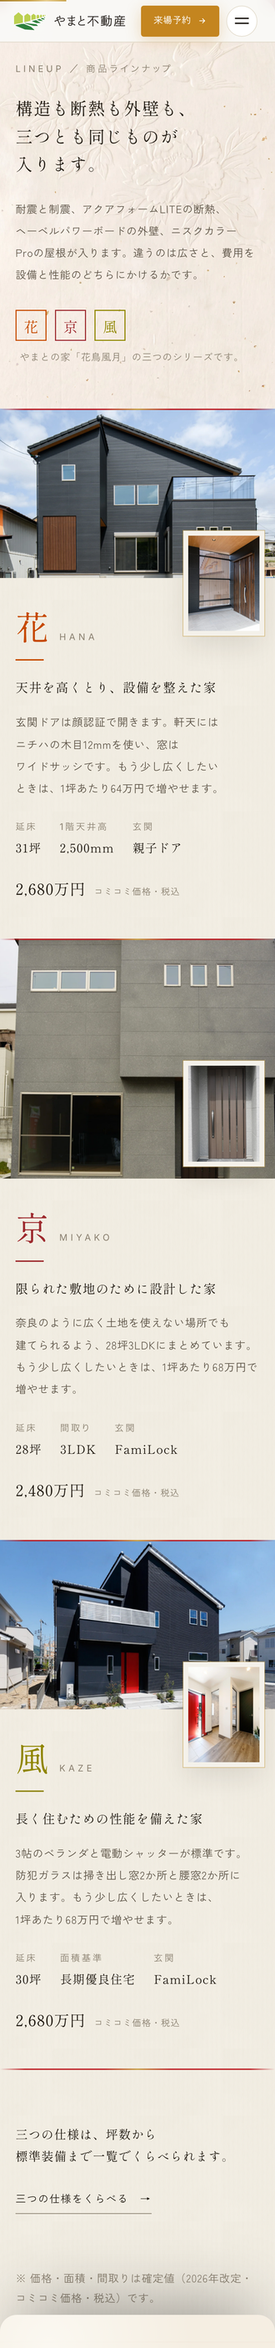
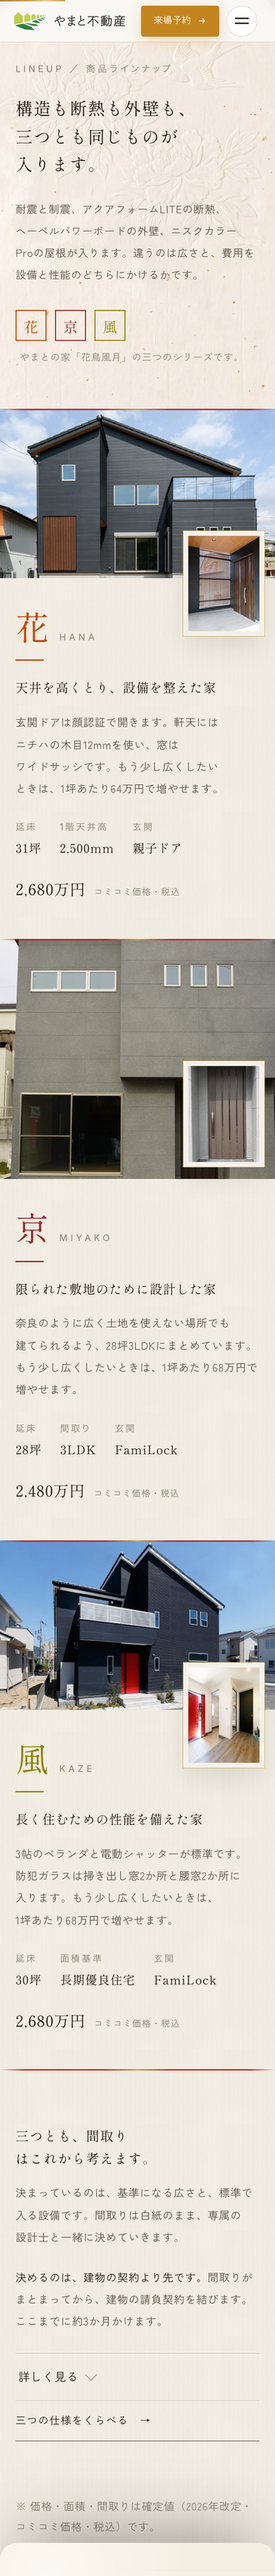
lineup: 自由設計を折りたたみに統合。コピーを読者の問いの順に書き直し
■ コピーの書き直し（ユーザー指摘「頭に入ってこない」）
原因は私にあった。リサーチで大阪府の警告を見つけて、読者もその文脈を
共有していると錯覚し、業界の用語論から書き始めていた。

三つのプランを見た直後の読者の問いは「私の家はこの通りになるのか」の一つだけ。
そこに合わせて順序を組み替えた。

旧: 見出し「どこまでが決まっていて、どこからが自由か。」（問いのまま）
  → リード「「自由設計」という言葉は会社によって指すものが違います」（用語論）
  → 「間取りが決まってから、建物の請負契約です」

新: 見出し「三つとも、間取りはこれから考えます。」（読者の問いに即答）
  → 「決まっているのは、基準になる広さと、標準で入る設備です。間取りは白紙のまま…」
  → 「決めるのは、建物の契約より先です。」

あわせて:
・「線引き」を撤去（書き手側の言葉。読者は線引きされたいわけではない）
・「決まっていないもの」→「これから決めるもの」
  同じ事実だが、否定形だと本来いちばん嬉しいこと（自由）が欠落に読める
・「決まっているもの」→「変わらないもの」（変えられるものと対になる）
・dd の体言止め（「間取り。」「広さ。」）を完全文に。自分で他所に課した規約違反だった

■ パンフ5手順 → 2つに
「一字も変えるな」と指示したのは私だが、パンフの声（オンリーワン／夢があふれ／
心の傘）はサイトの素の説明体と register が違い、混ざると違和感になる。
また5つのうち差別化になるのは 01（敷地を読む）と 02（不満点・後悔も聞く）だけで、
03-05 はどの会社も言っている。2つに絞り、サイトの声に直した。
設計士2名のコメントは本人の言葉なので verbatim のまま残す（名前と肩書つきで
提示するので register の差は意図的なものとして成立する）。

■ 構造
図面 lineup_free_mock.html（claude-ae）の折りたたみをそのまま採用。
一本の罫に扉を二つ（左＝その場で開く／右＝別ページへ）。
閉じの塊が縦に2つ並んでいたのが間延びの正体だったので、比較の一文は落とした。

■ 事故と復旧
CSS を正規表現でブロック抽出したところ @media が途中で切れ、閉じ括弧が2つ
欠けた状態で index.html に貼り、他セクションの FAIL が 72→365 に激増した。
バックアップから戻し、括弧の深さを数える方式で抽出し直して解決。
CSS を機械的に切り出すときは正規表現ではなく深さを数えること。

mobile-verify: #lineup 由来の FAIL 0（残72件は既存の iju/flow/faq/lots）。

diff --git a/lineup_free_mock.html b/lineup_free_mock.html
@@ -1,0 +1,176 @@
+<!DOCTYPE html>
+<html lang="ja">
+<head>
+<meta charset="UTF-8">
+<meta name="viewport" content="width=device-width, initial-scale=1">
+<title>#lineup 自由設計ブロック 折りたたみ図面 v2</title>
+<link rel="preconnect" href="https://fonts.googleapis.com">
+<link rel="preconnect" href="https://fonts.gstatic.com" crossorigin>
+<link href="https://fonts.googleapis.com/css2?family=Inter:wght@400;500&family=Shippori+Mincho+B1:wght@400;500&family=Zen+Kaku+Gothic+New:wght@300;400;500&display=swap" rel="stylesheet">
+<style>
+  *{margin:0;padding:0;box-sizing:border-box}
+  html{-webkit-text-size-adjust:100%}
+  body{background:#E8E4DA;font-family:"Zen Kaku Gothic New",sans-serif;font-feature-settings:"palt"}
+  .mk{max-width:1440px;margin:0 auto}
+  .mk__lab{padding:30px 22px 10px;font-size:15px;letter-spacing:.1em;color:#6E655A}
+
+  /* ══ ここから下は index.html にそのまま移せる ══ */
+  .lineup{position:relative;isolation:isolate;overflow:hidden;padding:0;
+    --lu-paper:#F4F1EA; --lu-sumi:#241E16; --lu-sumi2:#5C5346; --lu-sumi3:#8A8070;
+    --lu-fm:"Shippori Mincho B1","Hiragino Mincho ProN",serif;
+    --lu-fg:"Zen Kaku Gothic New",sans-serif;
+    --lu-fn:"Inter",sans-serif;
+    --lu-gx:clamp(22px,5vw,88px);
+    --lu-ground:linear-gradient(rgba(244,241,234,.62),rgba(244,241,234,.62)),
+      url("assets/std/page_kinari_letter_2400.webp");
+    color:var(--lu-sumi);background:var(--lu-paper);font-family:var(--lu-fg);font-weight:300}
+  .lu-cl{position:relative;padding:clamp(56px,7vw,96px) var(--lu-gx) clamp(64px,8vw,110px);
+    background:var(--lu-ground) center/cover var(--lu-paper);background-size:auto,62% auto}
+  .lu-cl__in{max-width:1180px;margin:0 auto}
+  .lu-free{max-width:46em}
+  .lu-free__h{margin:0;font-family:var(--lu-fm);font-weight:400;text-wrap:balance;line-break:strict;
+    font-size:clamp(1.18rem,1rem + .72vw,1.6rem);line-height:1.68;letter-spacing:.06em}
+  .lu-free__h span{display:inline-block}
+  .lu-free__b{margin:clamp(18px,2.2vw,26px) 0 0;line-break:strict;word-break:auto-phrase;text-wrap:balance;
+    font-size:clamp(.95rem,.92rem + .16vw,1.02rem);line-height:2.04;letter-spacing:.045em;color:var(--lu-sumi2)}
+  .lu-free__sig{margin:clamp(20px,2.4vw,28px) 0 0;line-break:strict;word-break:auto-phrase;text-wrap:balance;
+    font-size:clamp(.95rem,.92rem + .16vw,1.02rem);line-height:2.02;letter-spacing:.045em;color:var(--lu-sumi2)}
+  .lu-free__sig b{font-weight:400;color:var(--lu-sumi)}
+
+  /* ───── 一本の罫に、扉を二つ ─────
+     左＝その場で開く（シェブロン）／右＝別ページへ（矢印）。
+     <summary> の中に <a> は置けないので、CTA は details の兄弟にして
+     summary 行へ重ねている。SPでは重ねずに下へ落とす。 */
+  .lu-doors{position:relative;margin:clamp(30px,3.6vw,44px) 0 0;
+    border-top:1px solid rgba(36,30,22,.14);border-bottom:1px solid rgba(36,30,22,.14)}
+  .lu-more{border:0}
+  .lu-more summary{list-style:none;cursor:pointer;display:flex;align-items:center;
+    justify-content:flex-start;gap:12px;min-height:44px;
+    padding:clamp(18px,2.4vw,26px) 4px;padding-right:clamp(200px,20vw,300px);
+    font-family:var(--lu-fg);font-weight:400;font-size:clamp(.98rem,.94rem + .35vw,1.14rem);
+    letter-spacing:.04em;line-height:1.8;color:var(--lu-sumi);transition:color .25s}
+  .lu-more summary::-webkit-details-marker{display:none}
+  .lu-more summary:hover{color:#2E4600}
+  .lu-more summary::after{content:"";width:11px;height:11px;flex:0 0 auto;align-self:center;
+    border-right:1.5px solid #8D857A;border-bottom:1.5px solid #8D857A;
+    transform:translateY(-3px) rotate(45deg);transition:transform .3s cubic-bezier(.33,1,.68,1)}
+  .lu-more[open] summary::after{transform:translateY(2px) rotate(-135deg)}
+  .lu-more summary .lu-more__close{display:none}
+  .lu-more[open] summary .lu-more__open{display:none}
+  .lu-more[open] summary .lu-more__close{display:inline}
+  .lu-doors__cta{position:absolute;right:4px;top:0;display:inline-flex;align-items:center;
+    min-height:44px;height:calc(clamp(18px,2.4vw,26px) * 2 + 1.8em);
+    font-family:var(--lu-fg);font-weight:400;font-size:.92rem;letter-spacing:.09em;
+    color:var(--lu-sumi);text-decoration:none;white-space:nowrap;
+    box-shadow:inset 0 -1px 0 var(--lu-sumi3)}
+  .lu-doors__cta:hover{box-shadow:inset 0 -1px 0 var(--lu-sumi)}
+  @media (max-width:700px){
+    .lu-more summary{padding-right:4px}
+    .lu-doors__cta{position:static;height:auto;padding:16px 0 20px;
+      border-top:1px solid rgba(36,30,22,.14);width:100%}
+  }
+
+  .lu-more__in{padding:0 4px clamp(24px,3vw,34px)}
+  .lu-more__in{max-width:46em}
+  .lu-sec{display:block;margin:clamp(28px,3.4vw,40px) 0 clamp(14px,1.8vw,20px);font-family:var(--lu-fn);
+    font-weight:400;font-size:.8rem;letter-spacing:.26em;color:var(--lu-sumi3);text-transform:uppercase}
+  .lu-sec:first-child{margin-top:clamp(4px,1vw,10px)}
+
+  .lu-led{margin:0;padding:0;border-top:1px solid rgba(36,30,22,.14)}
+  .lu-led__row{display:grid;grid-template-columns:minmax(0,14em) minmax(0,1fr);
+    gap:clamp(14px,2.4vw,40px);padding:clamp(20px,2.4vw,30px) 0;
+    border-bottom:1px solid rgba(36,30,22,.14)}
+  .lu-led dt{font-family:var(--lu-fm);font-weight:400;font-size:clamp(1rem,.94rem + .3vw,1.14rem);
+    line-height:1.7;letter-spacing:.08em;color:var(--lu-sumi)}
+  .lu-led dd{margin:0;line-break:strict;word-break:auto-phrase;text-wrap:balance;
+    font-size:clamp(.95rem,.92rem + .16vw,1.02rem);line-height:2.02;letter-spacing:.045em;color:var(--lu-sumi2)}
+  .lu-led dd b{font-weight:400;color:var(--lu-sumi)}
+
+  /* 設計の5手順 */
+  /* 手順と二人は一列・40em（1行およそ39字）。二列にすると28字で和文本文の下限30字を割る */
+  .lu-step__grid{display:grid;grid-template-columns:minmax(0,1fr);gap:clamp(26px,3vw,38px);
+    max-width:40em}
+  .lu-step__n{display:block;margin:0 0 6px;font-family:var(--lu-fn);font-weight:400;font-size:.8rem;
+    letter-spacing:.18em;color:var(--lu-sumi3)}
+  .lu-step__h{margin:0 0 8px;font-family:var(--lu-fm);font-weight:400;text-wrap:balance;line-break:strict;
+    font-size:clamp(1rem,.94rem + .3vw,1.14rem);line-height:1.7;letter-spacing:.07em;color:var(--lu-sumi)}
+  .lu-step__b{margin:0;line-break:strict;word-break:auto-phrase;text-wrap:balance;
+    font-size:clamp(.95rem,.92rem + .1vw,.99rem);line-height:2.0;letter-spacing:.045em;color:var(--lu-sumi2)}
+  /* 02 だけ立てる。新しい装飾は足さず、章の中で使っている細罫と余白で差をつける */
+  .lu-step.is-lead{padding-top:clamp(20px,2.4vw,28px);border-top:1px solid rgba(36,30,22,.14)}
+
+  /* 設計担当の二人。写真は無いので枠を作らない */
+  .lu-ppl{display:grid;grid-template-columns:minmax(0,1fr);max-width:40em;
+    row-gap:clamp(26px,3vw,36px);
+    border-top:1px solid rgba(36,30,22,.14);padding-top:clamp(20px,2.4vw,28px)}
+  .lu-ppl__n{margin:0;font-family:var(--lu-fm);font-weight:400;
+    font-size:clamp(1rem,.94rem + .3vw,1.14rem);line-height:1.7;letter-spacing:.08em;color:var(--lu-sumi)}
+  .lu-ppl__r{display:block;margin:2px 0 10px;font-size:.85rem;line-height:1.8;letter-spacing:.06em;color:var(--lu-sumi3)}
+  .lu-ppl__c{margin:0;line-break:strict;word-break:auto-phrase;text-wrap:balance;
+    font-size:clamp(.95rem,.92rem + .1vw,.99rem);line-height:2.0;letter-spacing:.045em;color:var(--lu-sumi2)}
+  @media (max-width:640px){
+    .lu-led__row{grid-template-columns:minmax(0,1fr);gap:10px}
+  }
+  @media (prefers-reduced-motion:reduce){ .lu-more summary::after{transition:none} }
+</style>
+</head>
+<body>
+<div class="mk">
+
+  <p class="mk__lab">閉じた状態（扉は二つ：左＝その場で開く／右＝別ページへ）</p>
+  <section class="lineup"><div class="lu-cl"><div class="lu-cl__in">
+    <div class="lu-free">
+      <p class="lu-free__h">どこまでが決まっていて、<span>どこからが自由か。</span></p>
+      <p class="lu-free__b">「自由設計」という言葉は、会社によって指すものが違います。だから、やまとの線引きを先に書いておきます。</p>
+      <p class="lu-free__sig"><b>間取りが決まってから、建物の請負契約です。</b>打ち合わせには約3か月かけます。</p>
+    </div>
+    <div class="lu-doors">
+      <details class="lu-more">
+        <summary><span class="lu-more__open">詳しく見る</span><span class="lu-more__close">閉じる</span></summary>
+        <div class="lu-more__in"><span class="lu-sec">線引き</span><dl class="lu-led"><div class="lu-led__row"><dt>決まっているもの</dt><dd><b>構造と断熱、外壁と屋根、それに標準の設備です。</b>もうひとつ、基準になる広さも決まっています。三つのプランで違うのは、この広さと、設備をどこまで載せるかだけです。</dd></div><div class="lu-led__row"><dt>決まっていないもの</dt><dd><b>間取り。</b>部屋の数も配置も決まっていません。専属の設計士が打ち合わせの最初から同席して、一から考えます。同じ形に見える分譲地でも、隣の敷地しだいで光の入り方や視線の抜ける方向は変わるからです。</dd></div><div class="lu-led__row"><dt>変えられるもの</dt><dd><b>広さ。</b>1坪あたり64万円から増やせます。この金額には、増えた分の基礎3.3㎡も含まれています。</dd></div></dl><span class="lu-sec">設計の進め方</span><div class="lu-step__grid"><div class="lu-step"><span class="lu-step__n">01</span><p class="lu-step__h">敷地を読み解く</p><p class="lu-step__b">全ての住宅は必ず敷地の上に建っており、この敷地はお客様だけの、たった一つのものになります。同じ形の敷地が並んでいるように見える分譲地であっても、隣地の状況によっては、光の入り方、視線が抜ける方向などが違います。まずは敷地の特徴をつかむ事が設計の第1歩と考えております。</p></div><div class="lu-step is-lead"><span class="lu-step__n">02</span><p class="lu-step__h">要望と向き合い整理する</p><p class="lu-step__b">住宅の設計はお客様にとってのオンリーワンを作りだすものです。そのためにはお客様より多くの要望を聞き取ることが重要になります。新しい家には夢があふれ、様々なご要望があるかと思っております。理想の家がどんなものなのか、現在のお住まいの不満点や後悔された内容も一緒に整理していきます。</p></div><div class="lu-step"><span class="lu-step__n">03</span><p class="lu-step__h">様々な条件をまとめ整える</p><p class="lu-step__b">お客様にとって使いやすい間取りを考え、ゾーニング計画から動線、採光計画、キッチンやリビング、子ども部屋、水まわりなど部屋毎に暮らしやすさにこだわって要望をまとめていきます。</p></div><div class="lu-step"><span class="lu-step__n">04</span><p class="lu-step__h">耐震・災害に強い家について考える</p><p class="lu-step__b">お客様にとって動線や、暮らしやすさだけでは快適な家であるとは思っておりません。地震や災害にも強い家にすることも、大切なポイントであると考えております。</p></div><div class="lu-step"><span class="lu-step__n">05</span><p class="lu-step__h">あそびゴコロをプラスして</p><p class="lu-step__b">暮らしに彩りを演出する事で毎日が楽しく、自然と家族がコミュニケーションをとれるような、あそびゴコロも感じていただきたいと考えております。</p></div></div><span class="lu-sec">設計を担当する二人</span><div class="lu-ppl"><div class="lu-ppl__i"><p class="lu-ppl__n">栗野 佑也</p><span class="lu-ppl__r">KURINO Yuya／設計士</span><p class="lu-ppl__c">それぞれのご家族の暮らし・生活スタイルに沿ったプランをご提案。そこに住まうご家族が笑顔で楽しく過ごせる。そんな住まいの設計をしたいと思っております。</p></div><div class="lu-ppl__i"><p class="lu-ppl__n">岩佐 篤志</p><span class="lu-ppl__r">IWASA Atsushi／住宅デザイナー</span><p class="lu-ppl__c">現場監督や、営業設計の経験を活かして、みなさんの理想のお家をご提案します。そのためにも、お客様の心の傘を大きく開いていただけるように、がんばります！</p></div></div></div>
+      </details>
+      <a class="lu-doors__cta" href="madori.html#plans">三つの仕様をくらべる　→</a>
+    </div>
+  </div></div></section>
+
+  <p class="mk__lab">開いた状態</p>
+  <section class="lineup"><div class="lu-cl"><div class="lu-cl__in">
+    <div class="lu-free">
+      <p class="lu-free__h">どこまでが決まっていて、<span>どこからが自由か。</span></p>
+      <p class="lu-free__b">「自由設計」という言葉は、会社によって指すものが違います。だから、やまとの線引きを先に書いておきます。</p>
+      <p class="lu-free__sig"><b>間取りが決まってから、建物の請負契約です。</b>打ち合わせには約3か月かけます。</p>
+    </div>
+    <div class="lu-doors">
+      <details class="lu-more" open>
+        <summary><span class="lu-more__open">詳しく見る</span><span class="lu-more__close">閉じる</span></summary>
+        <div class="lu-more__in"><span class="lu-sec">線引き</span><dl class="lu-led"><div class="lu-led__row"><dt>決まっているもの</dt><dd><b>構造と断熱、外壁と屋根、それに標準の設備です。</b>もうひとつ、基準になる広さも決まっています。三つのプランで違うのは、この広さと、設備をどこまで載せるかだけです。</dd></div><div class="lu-led__row"><dt>決まっていないもの</dt><dd><b>間取り。</b>部屋の数も配置も決まっていません。専属の設計士が打ち合わせの最初から同席して、一から考えます。同じ形に見える分譲地でも、隣の敷地しだいで光の入り方や視線の抜ける方向は変わるからです。</dd></div><div class="lu-led__row"><dt>変えられるもの</dt><dd><b>広さ。</b>1坪あたり64万円から増やせます。この金額には、増えた分の基礎3.3㎡も含まれています。</dd></div></dl><span class="lu-sec">設計の進め方</span><div class="lu-step__grid"><div class="lu-step"><span class="lu-step__n">01</span><p class="lu-step__h">敷地を読み解く</p><p class="lu-step__b">全ての住宅は必ず敷地の上に建っており、この敷地はお客様だけの、たった一つのものになります。同じ形の敷地が並んでいるように見える分譲地であっても、隣地の状況によっては、光の入り方、視線が抜ける方向などが違います。まずは敷地の特徴をつかむ事が設計の第1歩と考えております。</p></div><div class="lu-step is-lead"><span class="lu-step__n">02</span><p class="lu-step__h">要望と向き合い整理する</p><p class="lu-step__b">住宅の設計はお客様にとってのオンリーワンを作りだすものです。そのためにはお客様より多くの要望を聞き取ることが重要になります。新しい家には夢があふれ、様々なご要望があるかと思っております。理想の家がどんなものなのか、現在のお住まいの不満点や後悔された内容も一緒に整理していきます。</p></div><div class="lu-step"><span class="lu-step__n">03</span><p class="lu-step__h">様々な条件をまとめ整える</p><p class="lu-step__b">お客様にとって使いやすい間取りを考え、ゾーニング計画から動線、採光計画、キッチンやリビング、子ども部屋、水まわりなど部屋毎に暮らしやすさにこだわって要望をまとめていきます。</p></div><div class="lu-step"><span class="lu-step__n">04</span><p class="lu-step__h">耐震・災害に強い家について考える</p><p class="lu-step__b">お客様にとって動線や、暮らしやすさだけでは快適な家であるとは思っておりません。地震や災害にも強い家にすることも、大切なポイントであると考えております。</p></div><div class="lu-step"><span class="lu-step__n">05</span><p class="lu-step__h">あそびゴコロをプラスして</p><p class="lu-step__b">暮らしに彩りを演出する事で毎日が楽しく、自然と家族がコミュニケーションをとれるような、あそびゴコロも感じていただきたいと考えております。</p></div></div><span class="lu-sec">設計を担当する二人</span><div class="lu-ppl"><div class="lu-ppl__i"><p class="lu-ppl__n">栗野 佑也</p><span class="lu-ppl__r">KURINO Yuya／設計士</span><p class="lu-ppl__c">それぞれのご家族の暮らし・生活スタイルに沿ったプランをご提案。そこに住まうご家族が笑顔で楽しく過ごせる。そんな住まいの設計をしたいと思っております。</p></div><div class="lu-ppl__i"><p class="lu-ppl__n">岩佐 篤志</p><span class="lu-ppl__r">IWASA Atsushi／住宅デザイナー</span><p class="lu-ppl__c">現場監督や、営業設計の経験を活かして、みなさんの理想のお家をご提案します。そのためにも、お客様の心の傘を大きく開いていただけるように、がんばります！</p></div></div></div>
+      </details>
+      <a class="lu-doors__cta" href="madori.html#plans">三つの仕様をくらべる　→</a>
+    </div>
+  </div></div></section>
+</div>
+<script>
+(function(){
+  document.querySelectorAll('.lu-more').forEach(function(dt){
+    var sum=dt.querySelector('summary'), ans=dt.querySelector('.lu-more__in');
+    if(!sum||!ans) return;
+    sum.addEventListener('click',function(e){
+      e.preventDefault();
+      if(dt.classList.contains('is-anim')) return;
+      dt.classList.add('is-anim');
+      if(!dt.open){
+        dt.open=true;
+        var h=ans.scrollHeight; ans.style.overflow='hidden';
+        ans.animate([{height:'0px',opacity:0},{height:h+'px',opacity:1}],{duration:340,easing:'cubic-bezier(.25,1,.5,1)'})
+          .onfinish=function(){ ans.style.overflow=''; dt.classList.remove('is-anim'); };
+      } else {
+        var h2=ans.scrollHeight; ans.style.overflow='hidden';
+        ans.animate([{height:h2+'px',opacity:1},{height:'0px',opacity:0}],{duration:280,easing:'cubic-bezier(.5,0,.75,0)'})
+          .onfinish=function(){ ans.style.overflow=''; dt.open=false; dt.classList.remove('is-anim'); };
+      }
+    });
+  });
+})();
+</script>
+</body>
+</html>

diff --git a/index.html b/index.html
@@ -747,6 +747,66 @@
   /* 自由設計の断り。三つの帯が「決まった商品が三つ」に読めるので、
      間取りは型ではないことをここで言う。新しい視覚言語は足さず、
      章の出口の中に二段で置く（説明 → 比較への導線）。*/
+  /* ───── 一本の罫に、扉を二つ ─────
+     左＝その場で開く（シェブロン）／右＝別ページへ（矢印）。
+     <summary> の中に <a> は置けないので、CTA は details の兄弟にして
+     summary 行へ重ねている。SPでは重ねずに下へ落とす。 */
+  .lu-doors{position:relative;margin:clamp(30px,3.6vw,44px) 0 0;
+    border-top:1px solid rgba(36,30,22,.14);border-bottom:1px solid rgba(36,30,22,.14)}
+  .lu-more{border:0}
+  .lu-more summary{list-style:none;cursor:pointer;display:flex;align-items:center;
+    justify-content:flex-start;gap:12px;min-height:44px;
+    padding:clamp(18px,2.4vw,26px) 4px;padding-right:clamp(200px,20vw,300px);
+    font-family:var(--lu-fg);font-weight:400;font-size:clamp(.98rem,.94rem + .35vw,1.14rem);
+    letter-spacing:.04em;line-height:1.8;color:var(--lu-sumi);transition:color .25s}
+  .lu-more summary::-webkit-details-marker{display:none}
+  .lu-more summary:hover{color:#2E4600}
+  .lu-more summary::after{content:"";width:11px;height:11px;flex:0 0 auto;align-self:center;
+    border-right:1.5px solid #8D857A;border-bottom:1.5px solid #8D857A;
+    transform:translateY(-3px) rotate(45deg);transition:transform .3s cubic-bezier(.33,1,.68,1)}
+  .lu-more[open] summary::after{transform:translateY(2px) rotate(-135deg)}
+  .lu-more summary .lu-more__close{display:none}
+  .lu-more[open] summary .lu-more__open{display:none}
+  .lu-more[open] summary .lu-more__close{display:inline}
+  .lu-doors__cta{position:absolute;right:4px;top:0;display:inline-flex;align-items:center;
+    min-height:44px;height:calc(clamp(18px,2.4vw,26px) * 2 + 1.8em);
+    font-family:var(--lu-fg);font-weight:400;font-size:.92rem;letter-spacing:.09em;
+    color:var(--lu-sumi);text-decoration:none;white-space:nowrap;
+    box-shadow:inset 0 -1px 0 var(--lu-sumi3)}
+  .lu-doors__cta:hover{box-shadow:inset 0 -1px 0 var(--lu-sumi)}
+  @media (max-width:700px){
+    .lu-more summary{padding-right:4px}
+    .lu-doors__cta{position:static;height:auto;padding:16px 0 20px;
+      border-top:1px solid rgba(36,30,22,.14);width:100%}
+  }
+  .lu-more__in{padding:0 4px clamp(24px,3vw,34px)}
+  .lu-more__in{max-width:46em}
+  .lu-sec{display:block;margin:clamp(28px,3.4vw,40px) 0 clamp(14px,1.8vw,20px);font-family:var(--lu-fn);
+    font-weight:400;font-size:.8rem;letter-spacing:.26em;color:var(--lu-sumi3);text-transform:uppercase}
+  .lu-sec:first-child{margin-top:clamp(4px,1vw,10px)}
+  /* 設計の5手順 */
+  /* 手順と二人は一列・40em（1行およそ39字）。二列にすると28字で和文本文の下限30字を割る */
+  .lu-step__grid{display:grid;grid-template-columns:minmax(0,1fr);gap:clamp(26px,3vw,38px);
+    max-width:40em}
+  .lu-step__n{display:block;margin:0 0 6px;font-family:var(--lu-fn);font-weight:400;font-size:.8rem;
+    letter-spacing:.18em;color:var(--lu-sumi3)}
+  .lu-step__h{margin:0 0 8px;font-family:var(--lu-fm);font-weight:400;text-wrap:balance;line-break:strict;
+    font-size:clamp(1rem,.94rem + .3vw,1.14rem);line-height:1.7;letter-spacing:.07em;color:var(--lu-sumi)}
+  .lu-step__b{margin:0;line-break:strict;word-break:auto-phrase;text-wrap:balance;
+    font-size:clamp(.95rem,.92rem + .1vw,.99rem);line-height:2.0;letter-spacing:.045em;color:var(--lu-sumi2)}
+  /* 02 だけ立てる。新しい装飾は足さず、章の中で使っている細罫と余白で差をつける */
+  .lu-step.is-lead{padding-top:clamp(20px,2.4vw,28px);border-top:1px solid rgba(36,30,22,.14)}
+  /* 設計担当の二人。写真は無いので枠を作らない */
+  .lu-ppl{display:grid;grid-template-columns:minmax(0,1fr);max-width:40em;
+    row-gap:clamp(26px,3vw,36px);
+    border-top:1px solid rgba(36,30,22,.14);padding-top:clamp(20px,2.4vw,28px)}
+  .lu-ppl__n{margin:0;font-family:var(--lu-fm);font-weight:400;
+    font-size:clamp(1rem,.94rem + .3vw,1.14rem);line-height:1.7;letter-spacing:.08em;color:var(--lu-sumi)}
+  .lu-ppl__r{display:block;margin:2px 0 10px;font-size:.85rem;line-height:1.8;letter-spacing:.06em;color:var(--lu-sumi3)}
+  .lu-ppl__c{margin:0;line-break:strict;word-break:auto-phrase;text-wrap:balance;
+    font-size:clamp(.95rem,.92rem + .1vw,.99rem);line-height:2.0;letter-spacing:.045em;color:var(--lu-sumi2)}
+  @media (prefers-reduced-motion:reduce){ .lu-more summary::after{transition:none} }
+
   .lu-free{max-width:46em}
   /* 台帳＝決まっている／決まっていない／変えられる の三段。
      「自由設計」は語として無価値化しており（大阪府が契約トラブルに警告を出す水準）、
@@ -1573,27 +1633,42 @@
   <div class="lu-cl">
     <div class="lu-cl__in">
       <div class="lu-free">
-        <p class="lu-free__h">どこまでが決まっていて、<span>どこからが自由か。</span></p>
-        <p class="lu-free__b">「自由設計」という言葉は、会社によって指すものが違います。だから、やまとの線引きを先に書いておきます。</p>
-        <dl class="lu-led">
-          <div class="lu-led__row">
-            <dt>決まっているもの</dt>
-            <dd><b>構造と断熱、外壁と屋根、それに標準の設備です。</b>もうひとつ、基準になる広さも決まっています。三つのプランで違うのは、この広さと、設備をどこまで載せるかだけです。</dd>
-          </div>
-          <div class="lu-led__row">
-            <dt>決まっていないもの</dt>
-            <dd><b>間取り。</b>部屋の数も配置も決まっていません。専属の設計士が打ち合わせの最初から同席して、一から考えます。同じ形に見える分譲地でも、隣の敷地しだいで光の入り方や視線の抜ける方向は変わるからです。</dd>
-          </div>
-          <div class="lu-led__row">
-            <dt>変えられるもの</dt>
-            <dd><b>広さ。</b>1坪あたり64万円から増やせます。この金額には、増えた分の基礎3.3㎡も含まれています。</dd>
-          </div>
-        </dl>
-        <p class="lu-free__sig"><b>間取りが決まってから、建物の請負契約です。</b>打ち合わせには約3か月かけます。設計を担当するのは、栗野佑也と岩佐篤志の二人です。</p>
+        <p class="lu-free__h">三つとも、間取りは<span>これから考えます。</span></p>
+        <p class="lu-free__b">決まっているのは、基準になる広さと、標準で入る設備です。間取りは白紙のまま、専属の設計士と一緒に決めていきます。</p>
+        <p class="lu-free__sig"><b>決めるのは、建物の契約より先です。</b>間取りがまとまってから、建物の請負契約を結びます。ここまでに約3か月かけます。</p>
       </div>
-      <div class="lu-cl__row">
-        <p class="lu-cl__t">三つの仕様は、坪数から標準装備まで一覧でくらべられます。</p>
-        <a class="lu-cl__a" href="madori.html#plans">三つの仕様をくらべる　→</a>
+      <div class="lu-doors">
+        <details class="lu-more">
+          <summary><span class="lu-more__open">詳しく見る</span><span class="lu-more__close">閉じる</span></summary>
+          <div class="lu-more__in">
+            <span class="lu-sec">決まっていること</span>
+            <dl class="lu-led">
+              <div class="lu-led__row"><dt>変わらないもの</dt>
+                <dd><b>構造と断熱、外壁と屋根、それに標準で入る設備です。</b>もうひとつ、基準になる広さも決まっています。三つのプランで違うのは、この広さと、設備をどこまで載せるかだけです。</dd></div>
+              <div class="lu-led__row"><dt>これから決めるもの</dt>
+                <dd><b>間取りです。</b>部屋の数も配置も決まっていません。専属の設計士が、打ち合わせの最初から同席して考えます。</dd></div>
+              <div class="lu-led__row"><dt>変えられるもの</dt>
+                <dd><b>広さです。</b>1坪あたり64万円から増やせます。この金額には、増えた分の基礎3.3㎡も含まれています。</dd></div>
+            </dl>
+            <span class="lu-sec">間取りの決め方</span>
+            <div class="lu-step__grid">
+              <div class="lu-step"><span class="lu-step__n">01</span>
+                <p class="lu-step__h">敷地を読むところから始めます</p>
+                <p class="lu-step__b">同じ形に見える分譲地でも、隣の敷地の状況で、光の入り方も視線の抜ける方向も変わります。その敷地の特徴をつかんでから、間取りを考えはじめます。</p></div>
+              <div class="lu-step is-lead"><span class="lu-step__n">02</span>
+                <p class="lu-step__h">いまの住まいの不満も、一緒に整理します</p>
+                <p class="lu-step__b">どんな家にしたいかをうかがいます。あわせて、いまのお住まいで不満に思っているところや、後悔されていることも一緒に整理していきます。理想だけを聞くより、そのほうが早く形になります。</p></div>
+            </div>
+            <span class="lu-sec">設計を担当する二人</span>
+            <div class="lu-ppl">
+              <div class="lu-ppl__i"><p class="lu-ppl__n">栗野 佑也</p><span class="lu-ppl__r">KURINO Yuya／設計士</span>
+                <p class="lu-ppl__c">それぞれのご家族の暮らし・生活スタイルに沿ったプランをご提案。そこに住まうご家族が笑顔で楽しく過ごせる。そんな住まいの設計をしたいと思っております。</p></div>
+              <div class="lu-ppl__i"><p class="lu-ppl__n">岩佐 篤志</p><span class="lu-ppl__r">IWASA Atsushi／住宅デザイナー</span>
+                <p class="lu-ppl__c">現場監督や、営業設計の経験を活かして、みなさんの理想のお家をご提案します。そのためにも、お客様の心の傘を大きく開いていただけるように、がんばります！</p></div>
+            </div>
+          </div>
+        </details>
+        <a class="lu-doors__cta" href="madori.html#plans">三つの仕様をくらべる　→</a>
       </div>
     </div>
   </div>
